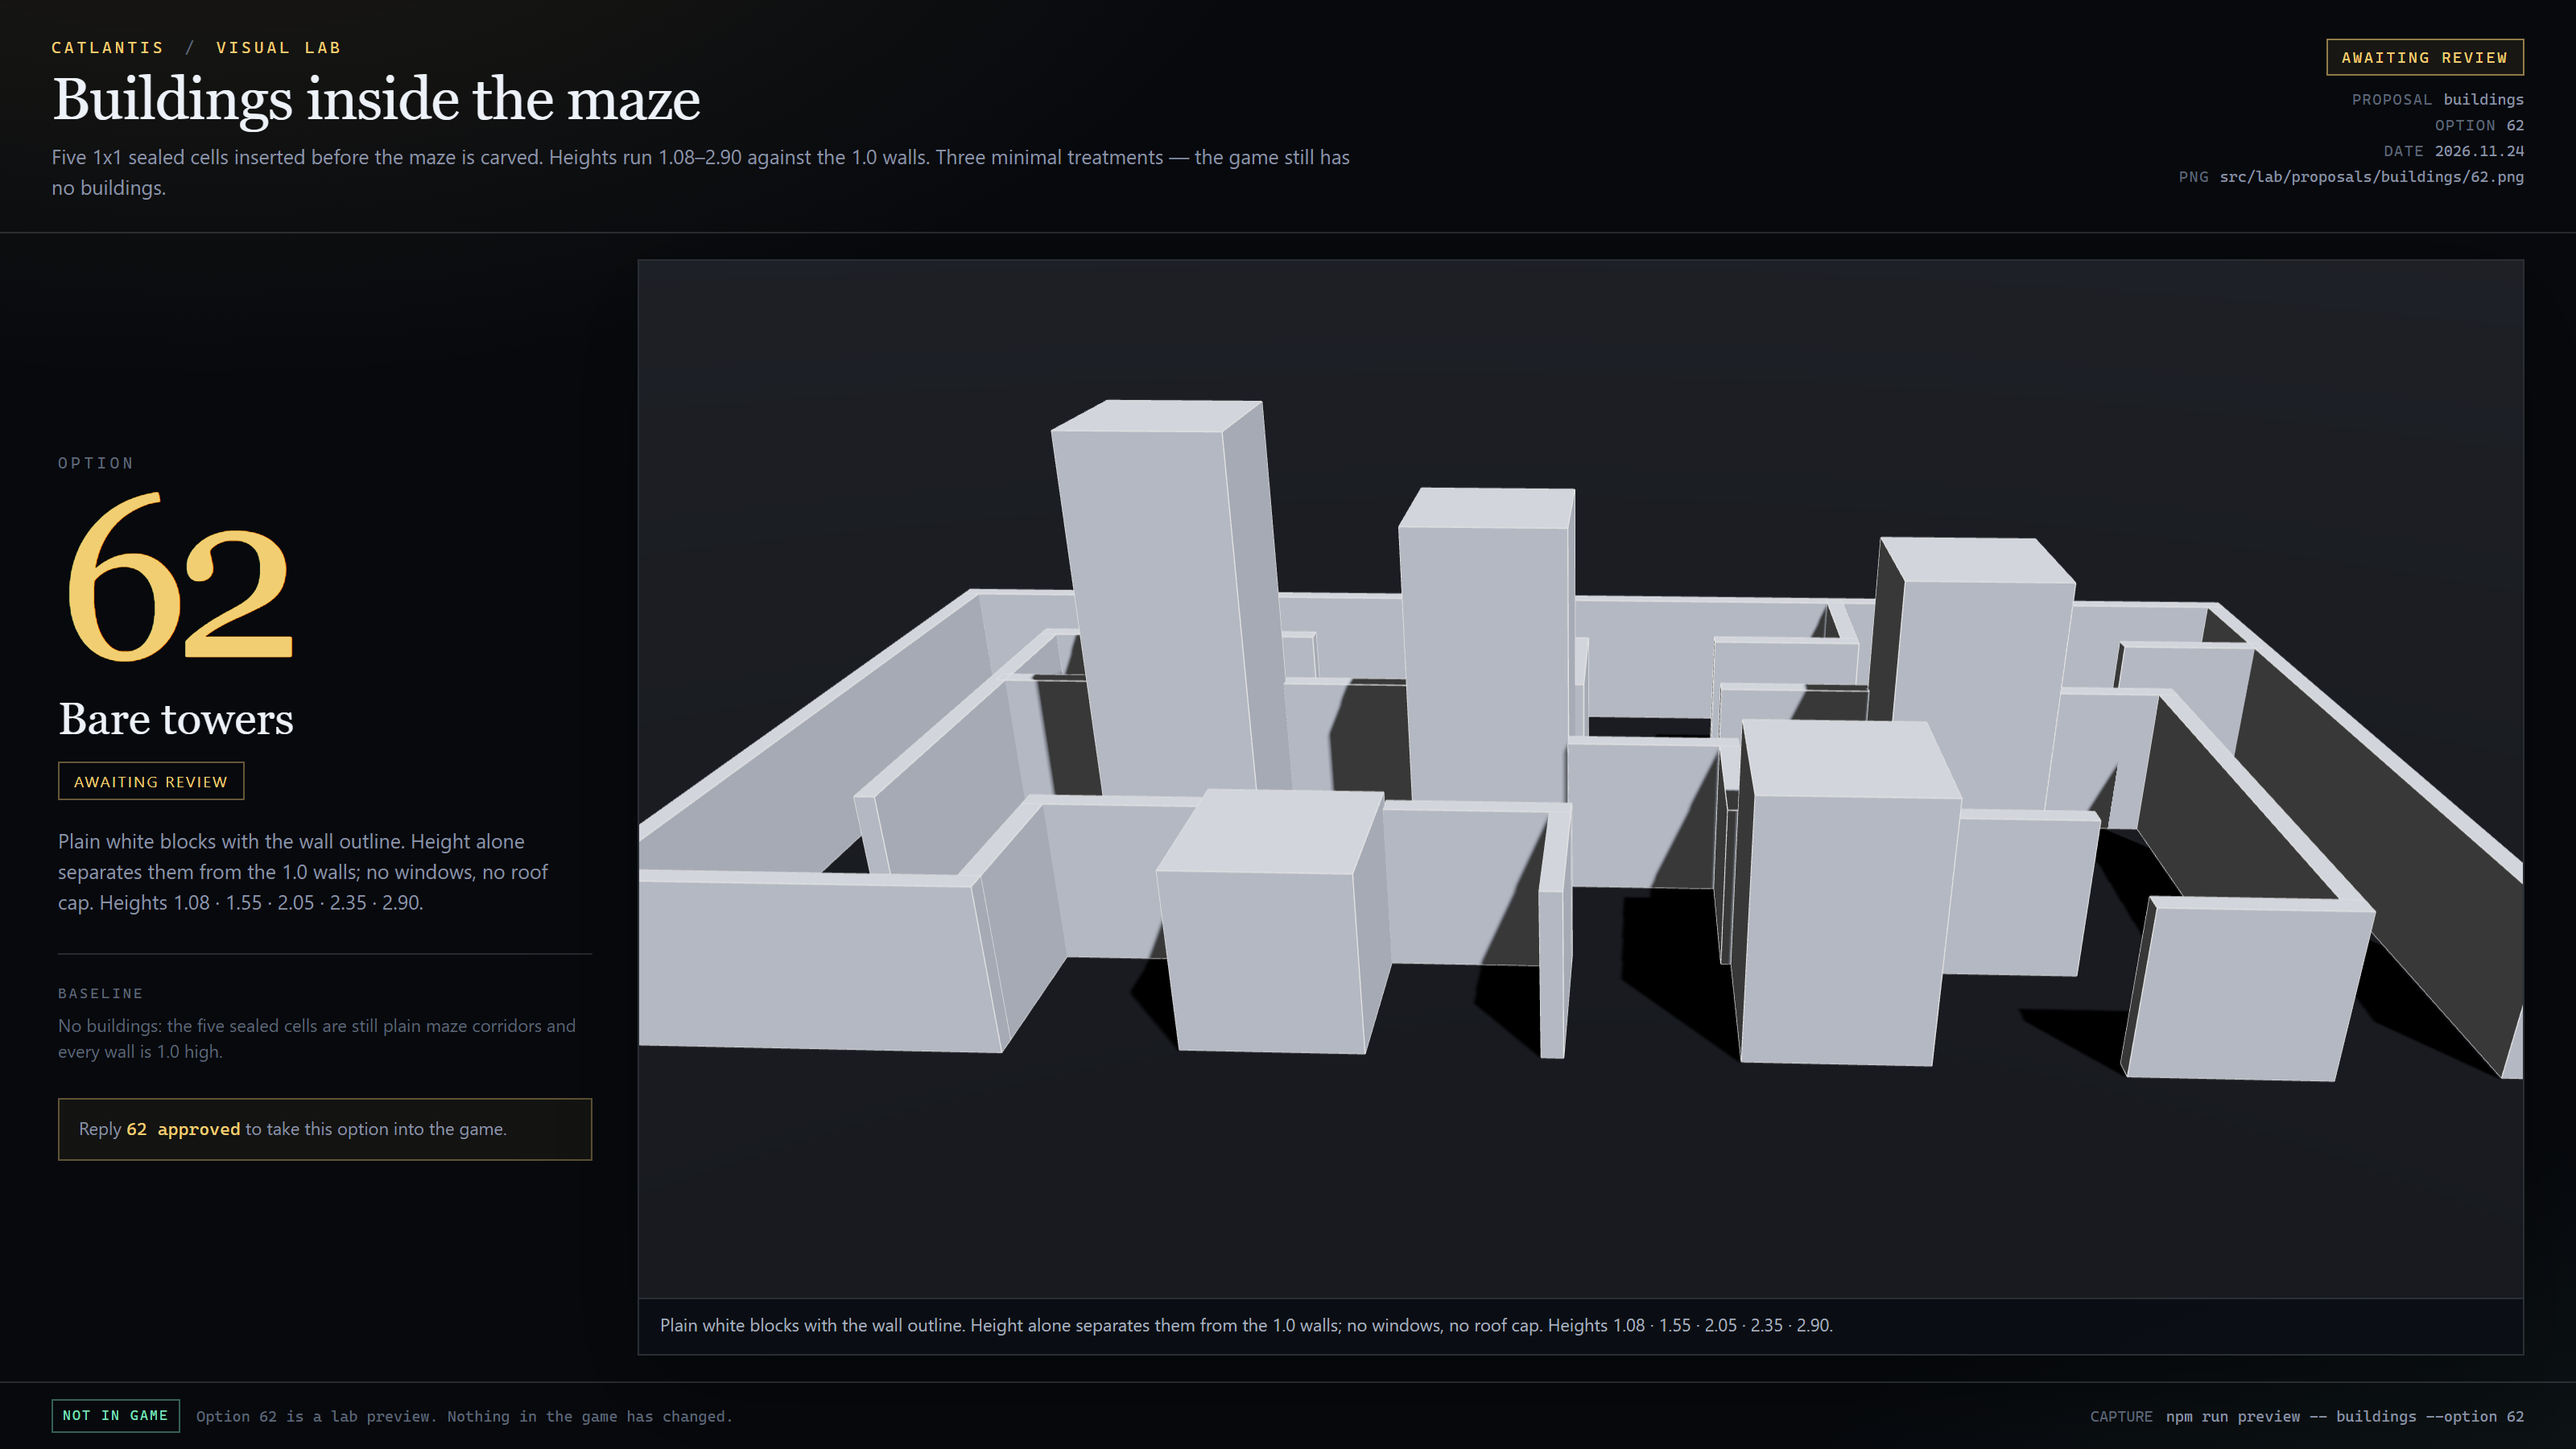
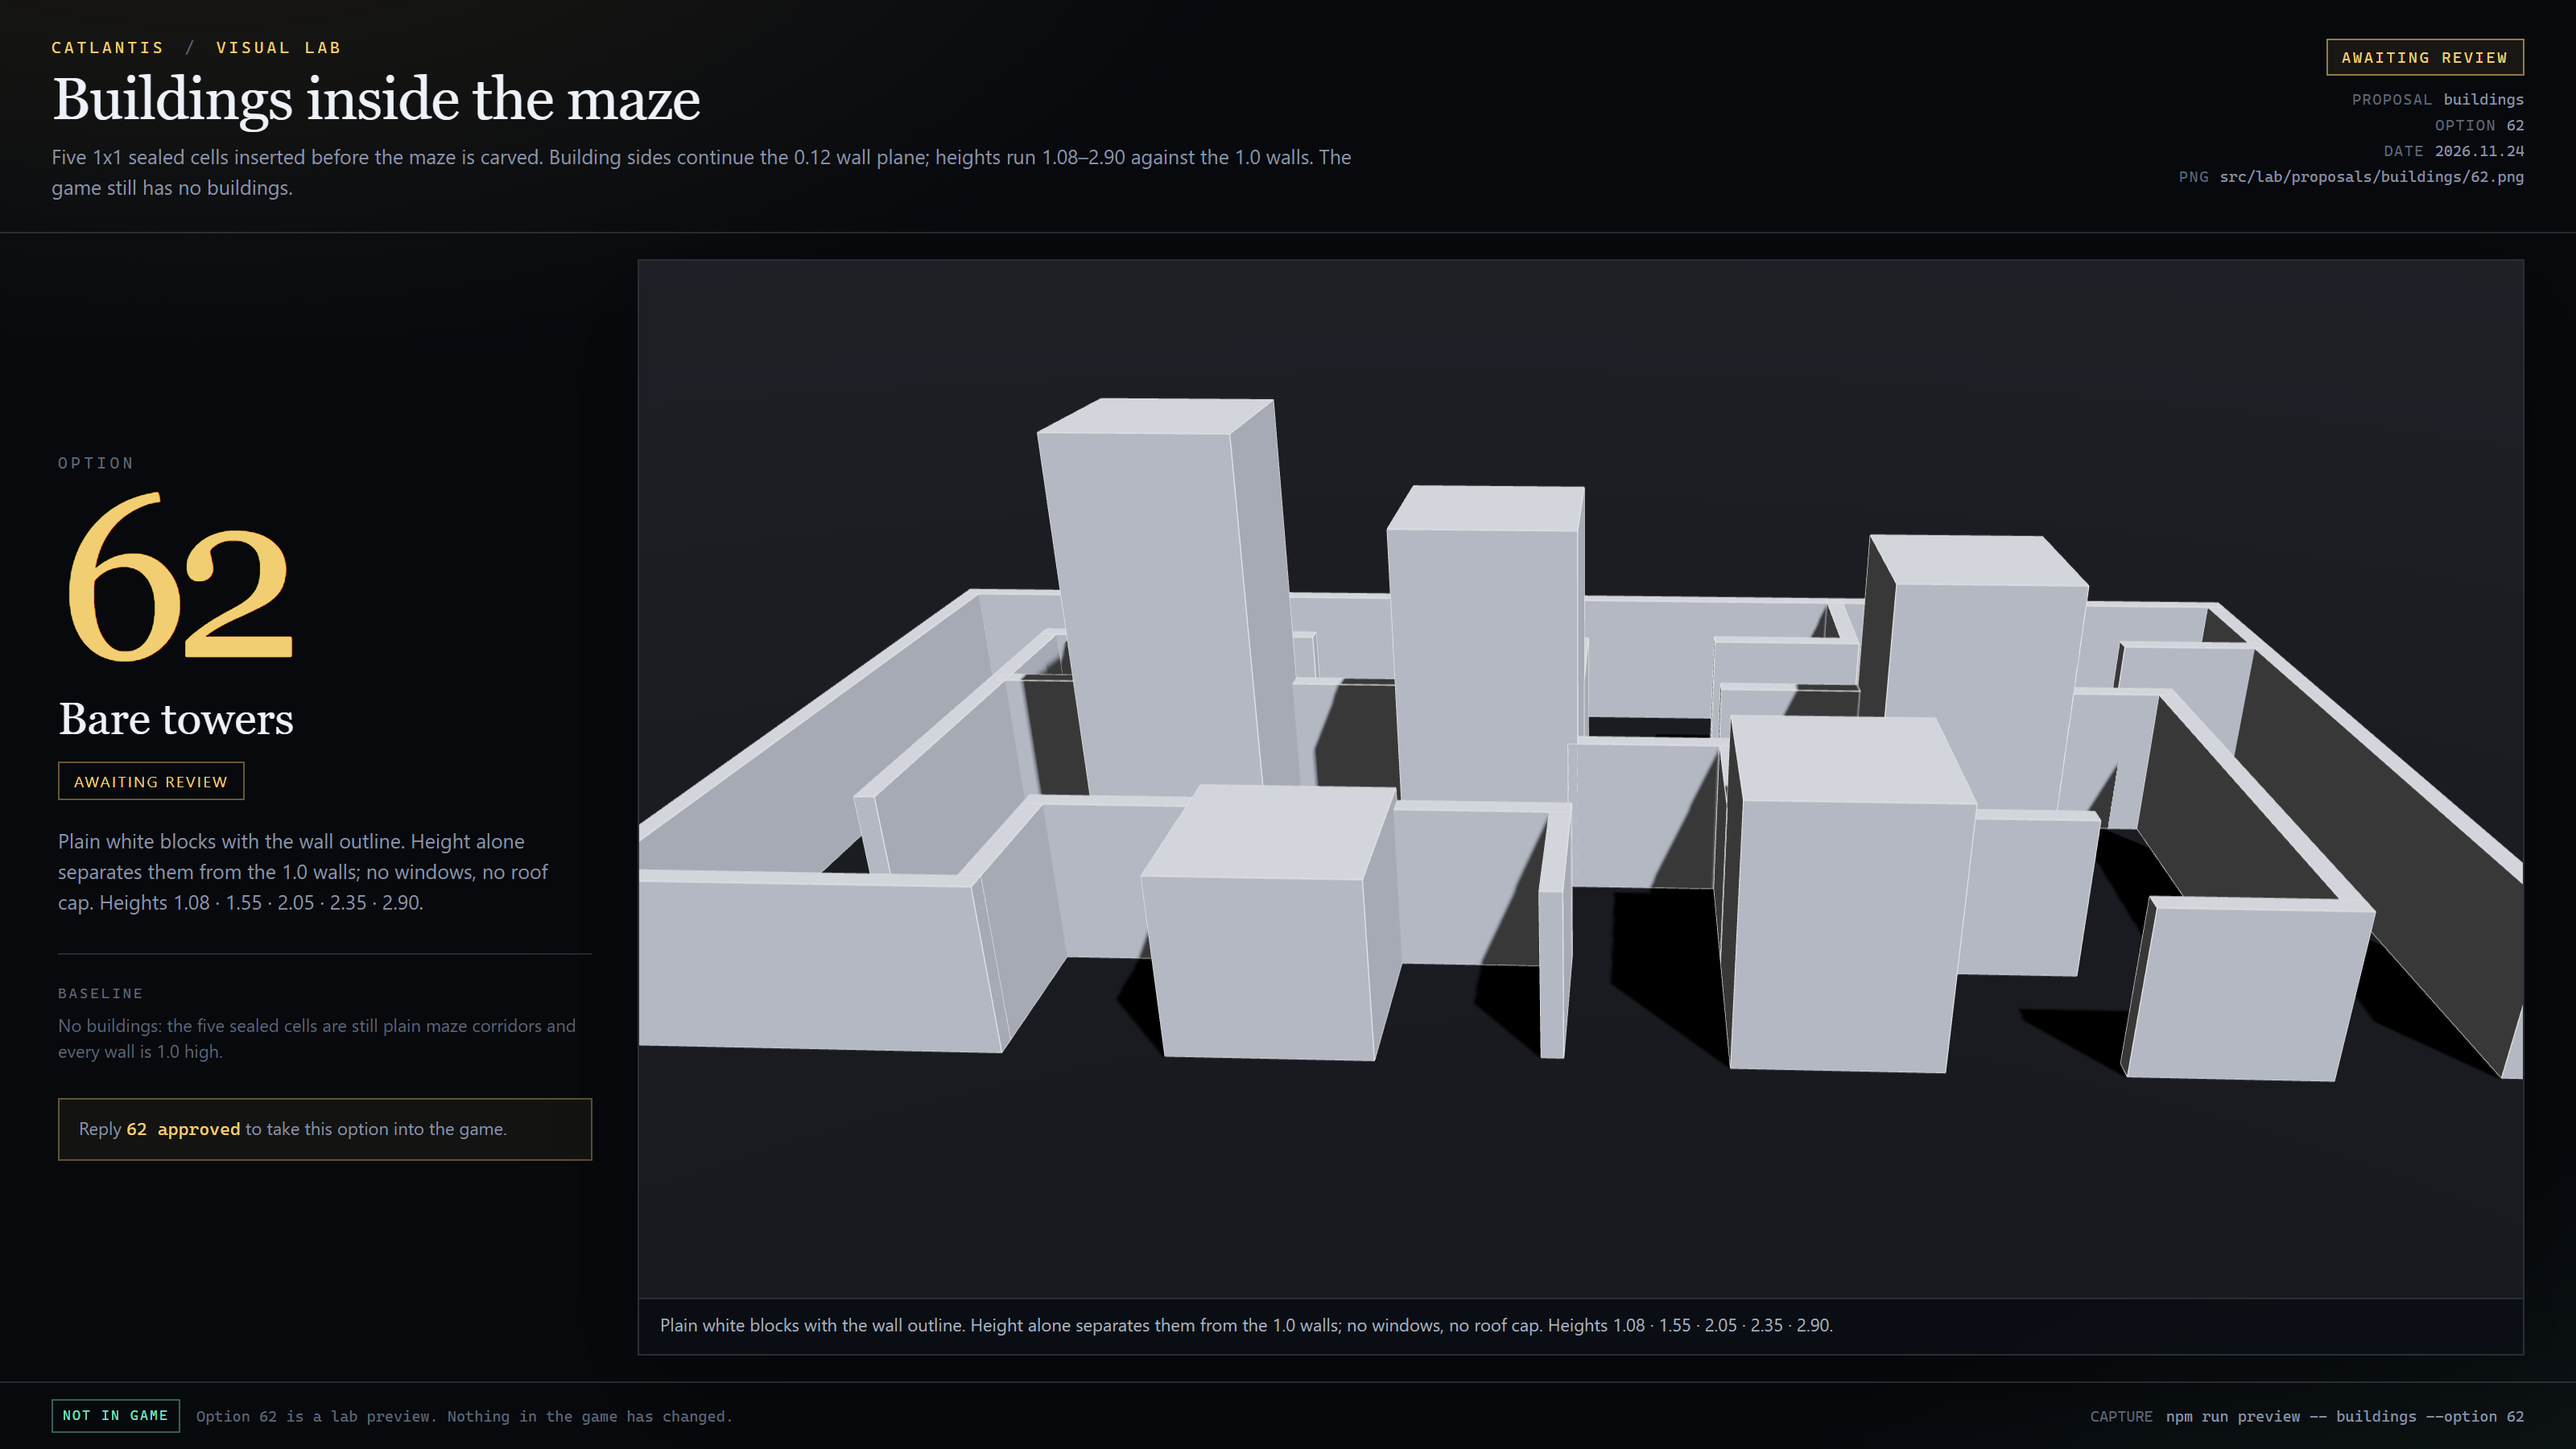
Align building sides with the wall thickness plane

diff --git a/src/lab/proposals/buildings/street.jsx b/src/lab/proposals/buildings/street.jsx
@@ -23,6 +23,13 @@ import { getMazeWallSegments } from '../../../utils/mazeWalls';
 const GRID_WIDTH = 10;
 const GRID_HEIGHT = 7;
 
+// A wall is 0.12 thick and centred on the cell boundary. The building fills
+// the cell *plus* that wall volume, so its sides land exactly on the wall
+// planes and every abutting wall meets it flush.
+const BUILDING_SIZE = 1 + GAME_CONFIG.WALL.THICKNESS;
+const BUILDING_HALF = BUILDING_SIZE / 2;
+const WINDOW_OFFSET = BUILDING_HALF + 0.005;
+
 // Heights span the whole randomised 1.0–3.0 range, so one view shows a hut, a
 // house, mid-rises, and a tower. Every building is exactly one cell (1x1).
 // The back row descends left-to-right; the two short blocks sit in front.
@@ -140,13 +147,13 @@ function StreetWalls({ maze }) {
 }
 
 const FACE_LAYOUTS = [
-  { spreadAxis: 'x', rotationY: 0, x: 0, z: 0.505 },
-  { spreadAxis: 'x', rotationY: Math.PI, x: 0, z: -0.505 },
-  { spreadAxis: 'z', rotationY: Math.PI / 2, x: 0.505, z: 0 },
-  { spreadAxis: 'z', rotationY: -Math.PI / 2, x: -0.505, z: 0 },
+  { spreadAxis: 'x', rotationY: 0, x: 0, z: WINDOW_OFFSET },
+  { spreadAxis: 'x', rotationY: Math.PI, x: 0, z: -WINDOW_OFFSET },
+  { spreadAxis: 'z', rotationY: Math.PI / 2, x: WINDOW_OFFSET, z: 0 },
+  { spreadAxis: 'z', rotationY: -Math.PI / 2, x: -WINDOW_OFFSET, z: 0 },
 ];
 
-const WINDOW_COLUMNS = [-0.21, 0.21];
+const WINDOW_COLUMNS = [-0.23, 0.23];
 
 function WindowLights({ building }) {
   const windows = useMemo(() => {
@@ -200,6 +207,8 @@ function WindowLights({ building }) {
 const ROOF_COLOR = '#2C3450';
 
 function RoofCap({ building, pyramidal }) {
+  const capSize = BUILDING_SIZE + 0.06;
+
   if (pyramidal) {
     return (
       <mesh
@@ -208,7 +217,7 @@ function RoofCap({ building, pyramidal }) {
         castShadow
         receiveShadow
       >
-        <coneGeometry args={[0.78, 0.32, 4]} />
+        <coneGeometry args={[0.82, 0.32, 4]} />
         <meshStandardMaterial color={ROOF_COLOR} metalness={0} roughness={0.6} />
       </mesh>
     );
@@ -220,7 +229,7 @@ function RoofCap({ building, pyramidal }) {
       castShadow
       receiveShadow
     >
-      <boxGeometry args={[1.1, 0.1, 1.1]} />
+      <boxGeometry args={[capSize, 0.1, capSize]} />
       <meshStandardMaterial color={ROOF_COLOR} metalness={0} roughness={0.6} />
     </mesh>
   );
@@ -233,7 +242,7 @@ function Building({ building, index, treatment }) {
     <group position={[building.x, 0, building.z]}>
       <mesh
         position={[0, building.height / 2, 0]}
-        scale={[1, building.height, 1]}
+        scale={[BUILDING_SIZE, building.height, BUILDING_SIZE]}
         castShadow
         receiveShadow
       >
@@ -244,7 +253,7 @@ function Building({ building, index, treatment }) {
       <lineSegments
         geometry={UNIT_EDGES}
         position={[0, building.height / 2, 0]}
-        scale={[1, building.height, 1]}
+        scale={[BUILDING_SIZE, building.height, BUILDING_SIZE]}
       >
         <lineBasicMaterial color="#FFFFFF" linewidth={2} />
       </lineSegments>

diff --git a/src/lab/proposals/buildings/64.jsx b/src/lab/proposals/buildings/64.jsx
@@ -7,7 +7,7 @@ const option = {
   number: 64,
   label: 'Capped roofs',
   description:
-    'Building faces use the same white material and white edge as every maze wall. Only the dark shallow roof cap (flat slab / pyramid) separates them. Heights 1.08 · 1.55 · 2.05 · 2.35 · 2.90.',
+    'Building sides continue the 0.12 wall plane (cell + wall volume), using the same white material and white edge as every maze wall. Only the dark shallow roof cap (flat slab / pyramid) separates them. Heights 1.08 · 1.55 · 2.05 · 2.35 · 2.90.',
   render: () => <StreetScene treatment="roofs" />,
 };
 

diff --git a/src/lab/proposals/buildings/index.jsx b/src/lab/proposals/buildings/index.jsx
@@ -21,7 +21,7 @@ const proposal = {
   id: 'buildings',
   title: 'Buildings inside the maze',
   subtitle:
-    'Five 1x1 sealed cells inserted before the maze is carved. Heights run 1.08–2.90 against the 1.0 walls. Three minimal treatments — the game still has no buildings.',
+    'Five 1x1 sealed cells inserted before the maze is carved. Building sides continue the 0.12 wall plane; heights run 1.08–2.90 against the 1.0 walls. The game still has no buildings.',
   camera,
   baseline: {
     label: 'Current',

diff --git a/doc/changelog.md b/doc/changelog.md
@@ -11,3 +11,4 @@ Entries are appended at the end. Each line starts with the date in
 2026.11.24 [AI computing time = 20 min] Simplified the visual workflow to numbered code+PNG pairs in `src/lab/proposals/<slug>/`; removed the option ledger, `proposal:new`, `meta.json`, `notes.md`, and the 3-up sheet; split `wall-openings` and `mountain-span` into 56/57/58 and 59/60/61 `.jsx` + `.png` pairs.
 2026.11.24 [AI computing time = 20 min] Implemented approved mountain option 60 (Jagged range) in `HorizonMountains`: ridge spans 20/26/32 centered on 7/9.5/12, frequency 5, valleys clamped to ground, white band follows the ridge with polygon offset; added `mountainHeight` tests and removed the selected proposal folder.
 2026.11.24 [AI computing time = 35 min] Added the `buildings` visual proposal (options 62-64): five 1x1 sealed building cells inserted before a deterministic 10x7 maze carve, heights 1.08-2.90 against the 1.0 walls, three minimal treatments (bare towers, warm windows, alternating dark roof caps). Option 64 revised after review so building faces reuse the exact white wall material and outline. Lab only — the game is unchanged.
+2026.11.24 [AI computing time = 10 min] Refined the buildings proposal: bodies now fill the cell plus the 0.12 wall volume (1.12 footprint), so building sides land exactly on the wall planes and abutting walls meet flush; windows and roof caps resized, all three PNGs recaptured. Lab only.
